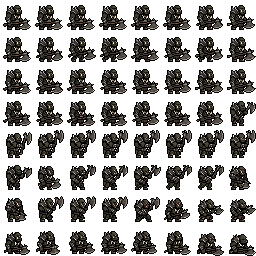
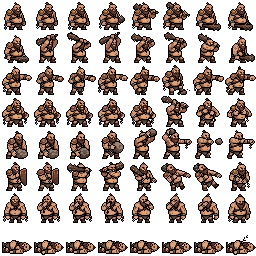
Gojans gladiatorgrop: egna bilder för resen Bulk och Mona
Claude-Session: https://claude.ai/code/session_018ajE8D2FggpF2yZQRYB5KY

diff --git a/sw.js b/sw.js
@@ -1,7 +1,7 @@
 // Fantasyvärlden – service worker.
 // Egna filer: nätet först (så uppdateringar syns direkt), cachen som reserv när man är offline.
 // GitHub-API:t (sparfilen) cachas aldrig.
-const CACHE = "fantasyvarlden-v94";
+const CACHE = "fantasyvarlden-v95";
 const SHELL = ["./","./index.html","./spel.js","./regler.js","./varld.js","./hjaltar.js","./figurer.js","./fiendebilder.js","./bakgrund.js","./grafik.js","./manifest.json","./icons/icon-180.png","./icons/icon-192.png","./icons/icon-512.png"];
 self.addEventListener("install", e => { e.waitUntil(caches.open(CACHE).then(c => c.addAll(SHELL)).then(() => self.skipWaiting())); });
 self.addEventListener("activate", e => { e.waitUntil(caches.keys().then(k => Promise.all(k.filter(x => x !== CACHE).map(x => caches.delete(x)))).then(() => self.clients.claim())); });

diff --git a/spel.js b/spel.js
@@ -481,7 +481,7 @@ function ritaBasar(){
 // Uppdragsgivarnas figurark i npc/ (8×8 rutor). Familjen von Borge: rad 1 är fadern som står för familjen.
 const GIVARE = {"Porsch Wilson":"porsch","Barden Baror":"baror","Mandor Marvolt":"mandor","Gitte von Gittemberg":"gitte","Lansor":"lansor",
   "Familjen von Borge":"vonborge","Slasbys församling":"hannes","Eva":"eva","Hövding Atlas":"atlas","Clark":"clark",
-  "Borgmästaren i Hagbo":"hagbo","Professor Proppeteus":"proppeteus"};
+  "Borgmästaren i Hagbo":"hagbo","Professor Proppeteus":"proppeteus","Mona":"mona"};
 // Arken tittar åt höger och speglas så att figuren vänder sig mot sällskapet – utom Eva, vars ark redan tittar åt vänster
 const GIVARE_VANSTER = new Set(["givare_eva"]);
 function givare(namn, fro){ const ark = "givare_" + (GIVARE[namn] || "generisk");
